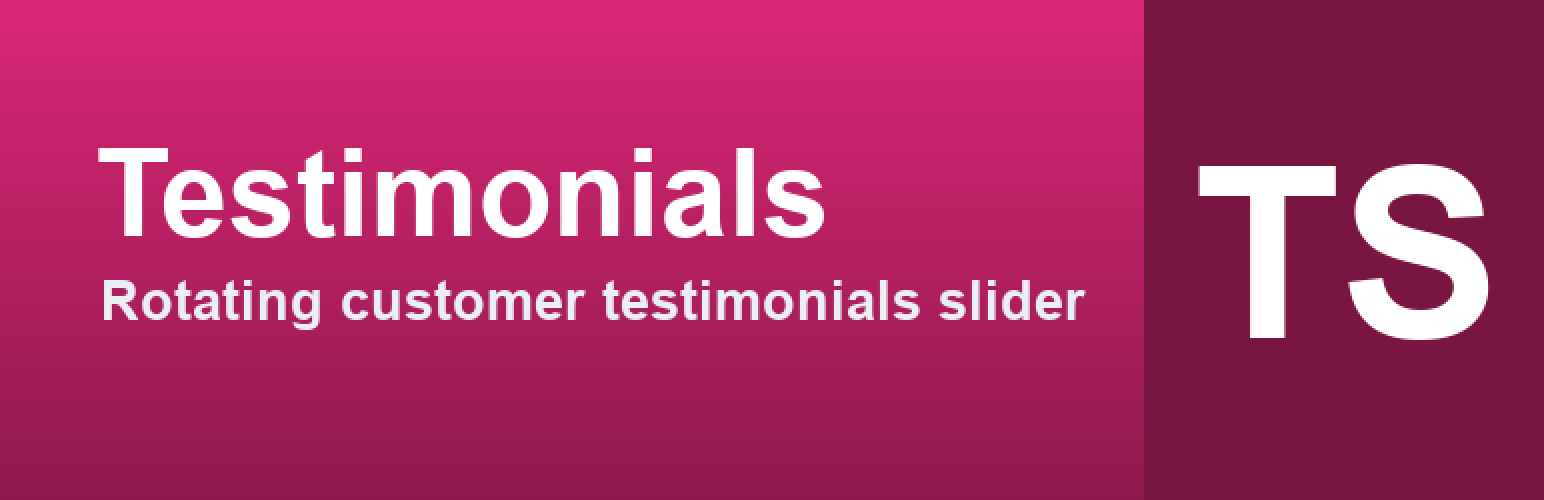
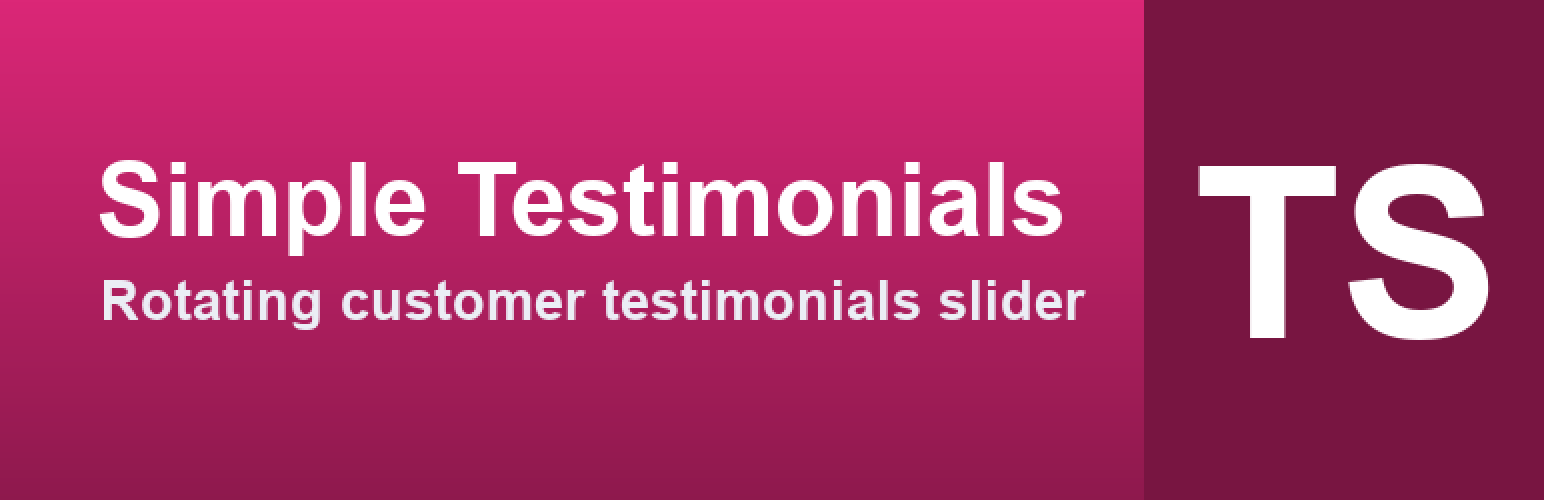
Rename to Simple Testimonials Slider (slug collision on wordpress.org)
'testimonials-slider' slug is taken; rename slug + text domain + display name.

Changed region(s): [[0.0622, 0.27, 0.715, 0.51]]

diff --git a/uninstall.php b/uninstall.php
@@ -7,4 +7,4 @@
 
 defined( 'WP_UNINSTALL_PLUGIN' ) || exit;
 
-delete_option( 'testimonials-slider_options' );
+delete_option( 'simple-testimonials-slider_options' );

diff --git a/README.md b/README.md
@@ -1,4 +1,4 @@
-# Testimonials Slider
+# Simple Testimonials Slider
 
 Show rotating customer testimonials with a simple shortcode — names, roles and
 star ratings, no jQuery. Part of the
@@ -18,7 +18,7 @@ Configurable accent colour and rotation speed.
 
 ## Settings
 
-**Settings → Testimonials Slider** — accent colour, auto-rotate interval.
+**Settings → Simple Testimonials Slider** — accent colour, auto-rotate interval.
 
 ## Free vs Pro
 